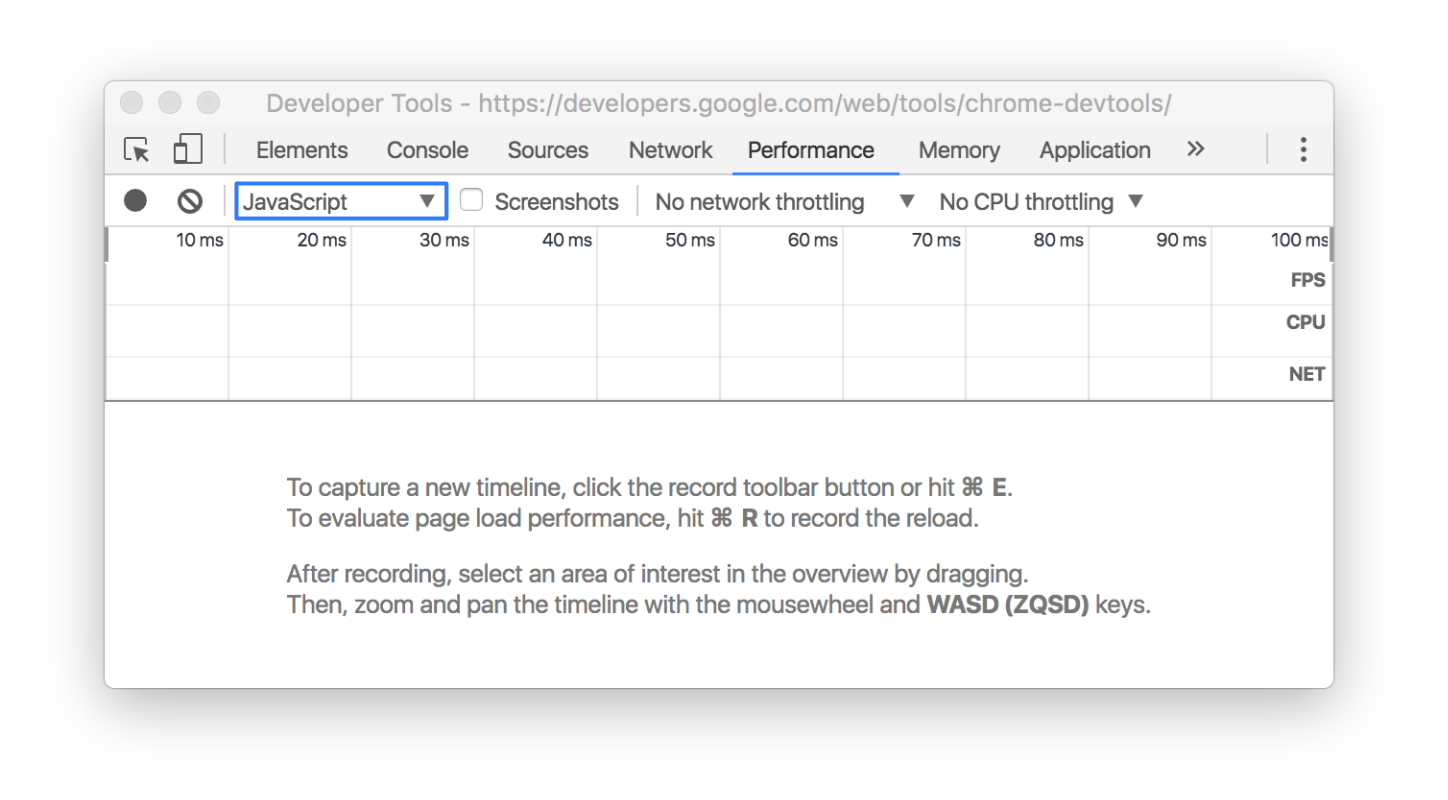
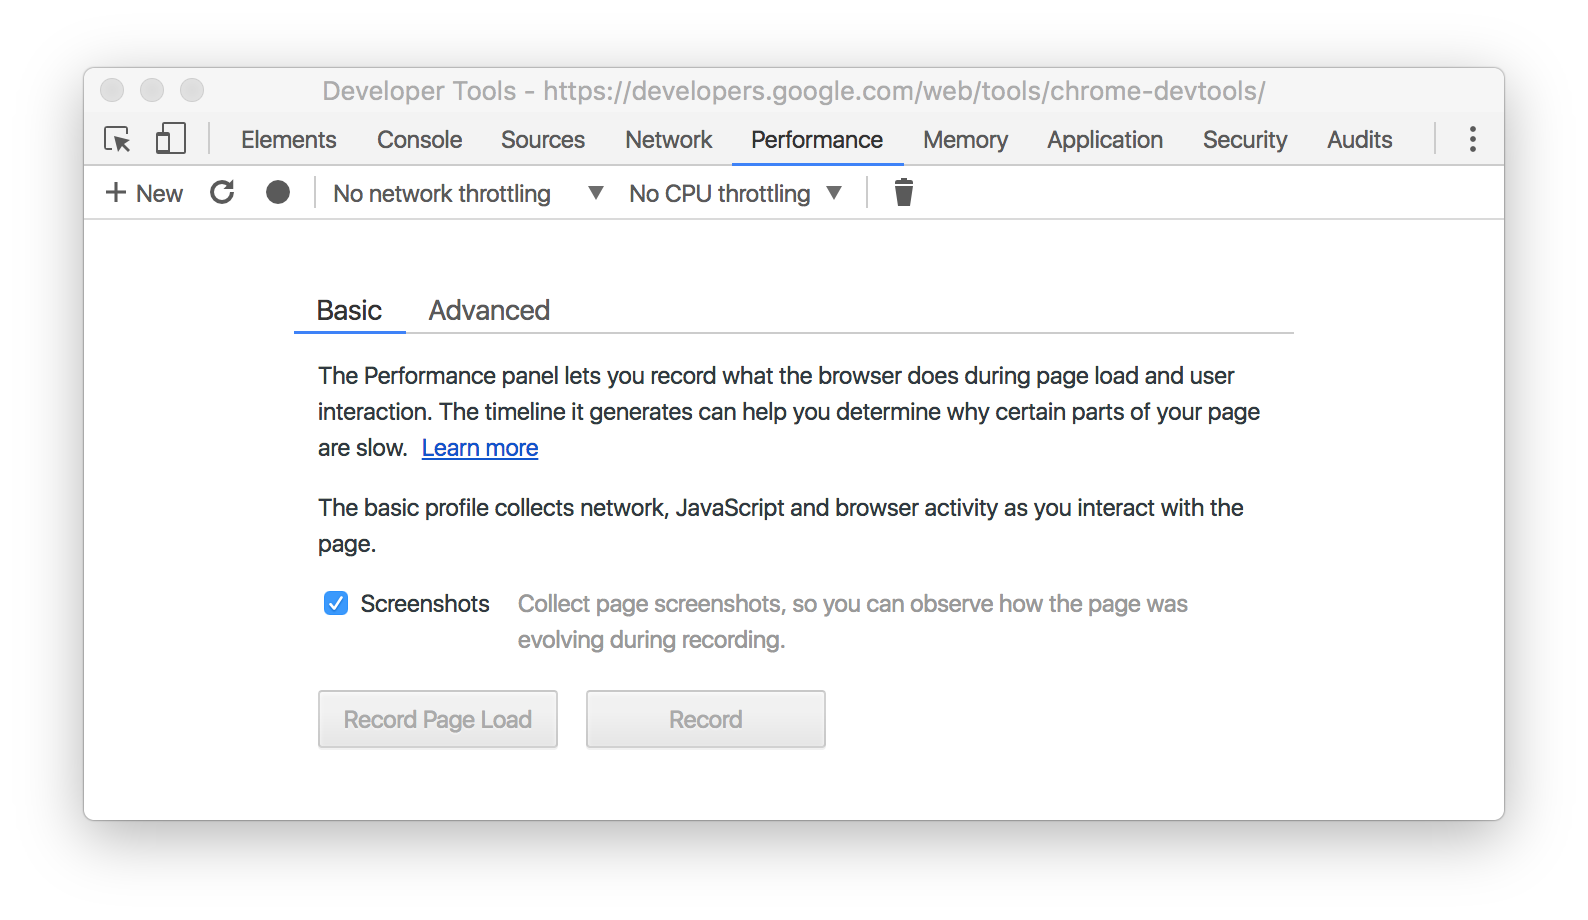
[devtools] update cpu profile migration post

Changed region(s): [[0.0311, 0.0625, 0.9634, 0.9375], [0.1865, 0.5312, 0.808, 0.8125]]

diff --git a/src/content/en/updates/2016/12/devtools-javascript-cpu-profile-migration.md b/src/content/en/updates/2016/12/devtools-javascript-cpu-profile-migration.md
@@ -13,6 +13,9 @@ description: Now that "Record JavaScript CPU Profile" has been removed from Chro
   max-height: 1em;
   vertical-align: middle;
 }
+figcaption {
+  text-align: center;
+}
 </style>
 
 # Chrome DevTools: JavaScript CPU Profiling in Chrome 57 {: .page-title }
@@ -38,22 +41,20 @@ workflow that you're used to.
 
 1. Open DevTools.
 1. Click the **Performance** tab.
-1. Set the performance profile to **JavaScript**.
 
-     ![JS Performance Profile][js-profile]
+     <figure>
+       <img src="/web/updates/images/2016/12/js-perf-profile.png"
+         alt="The Chrome DevTools Performance panel">
+       <figcaption><b>Figure 1</b>. The Performance panel.</figcaption>
+     </figure>
 
-You can record in two ways:
+1. Record in one of the following ways:
 
-* To profile a page load, press <kbd>Command</kbd>+<kbd>R</kbd> (Mac) or
-  <kbd>Control</kbd>+<kbd>R</kbd> (Windows, Linux) to reload the page.
-  DevTools automatically starts the recording and then automatically
-  stops when it detects that the page has finished loading.
-* To profile a running page, press **Record**
-  ![Record][record]{:.devtools-inline}, perform the actions that you want
-  to profile, and then click **Record** again when you're finished.
-
-[js-profile]: /web/updates/images/2016/12/js-perf-profile.png
-[record]: /web/updates/images/2016/12/record.png
+     * To profile a page load, click **Record Page Load**.
+       DevTools automatically starts the recording and then automatically
+       stops when it detects that the page has finished loading.
+     * To profile a running page, click **Record**, perform the actions that
+       you want to profile, and then click **Stop** when you're finished.
 
 ## How the old workflow maps to the new {: #mind-map }
 
@@ -61,21 +62,36 @@ From the **Chart** view of the old workflow, the screenshot below shows
 you the position of the CPU usage overview chart (top arrow) and the 
 flame chart (bottom arrow) in the new workflow.
 
-![Chart view mapping][chart]
-
-[chart]: /web/updates/images/2016/12/flame-map.png
+<figure>
+  <img src="/web/updates/images/2016/12/flame-map.png"
+    alt="Mapping between flame chart in old workflow and new workflow.">
+  <figcaption>
+    <b>Figure 2</b>. Mapping between flame chart in old workflow (left) and
+    new workflow (right).
+  </figcaption>
+</figure>
 
 The **Heavy (Bottom Up)** view is available in the **Bottom-Up** tab:
 
-![Bottom-up view mapping][bottom]
-
-[bottom]: /web/updates/images/2016/12/bottom-up-map.png
+<figure>
+  <img src="/web/updates/images/2016/12/bottom-up-map.png"
+    alt="Mapping betwen Bottom-Up view in old workflow and new workflow.">
+  <figcaption>
+    <b>Figure 3</b>. Mapping between Bottom-Up view in old workflow (left) and
+    new workflow (right).
+  </figcaption>
+</figure>
 
 And the **Tree (Top Down)** view is available in the **Call Tree** tab:
 
-![Tree view mapping][tree]
-
-[tree]: /web/updates/images/2016/12/tree-map.png
+<figure>
+  <img src="/web/updates/images/2016/12/tree-map.png"
+    alt="Mapping betwen Tree view in old workflow and new workflow.">
+  <figcaption>
+    <b>Figure 4</b>. Mapping between Tree view in old workflow (left) and
+    new workflow (right).
+  </figcaption>
+</figure>
 
 ## Feedback {: #feedback }
 
